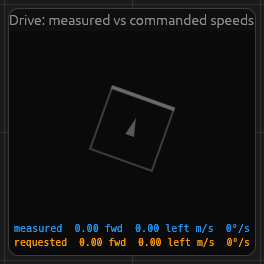
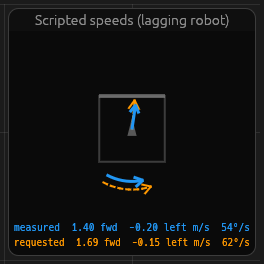
Book screenshots: Chassis Speeds pictured from the scripted, moving card

Changed region(s): [[0.3333, 0.303, 0.6667, 0.7576], [0.0303, 0.8485, 0.9394, 0.9394], [0.0303, 0.0606, 0.9697, 0.1212]]

diff --git a/crates/app/src/ui/tests/clips.rs b/crates/app/src/ui/tests/clips.rs
@@ -348,7 +348,10 @@ const BOOK_IMAGES: &str = "book/src/images";
 
 /// The card to cut out for a widget type, by title, where the first one
 /// in the layout isn't the best example: (type, card title).
-const PICTURED: &[(&str, &str)] = &[("Graph", "Sine and orbit")];
+const PICTURED: &[(&str, &str)] = &[
+    ("Graph", "Sine and orbit"),
+    ("Chassis Speeds", "Scripted speeds (lagging robot)"),
+];
 
 /// Whether the card titled `title` is the one to cut out for `kind`: the
 /// one [`PICTURED`] names, or else the first (`seen` has the types done).
